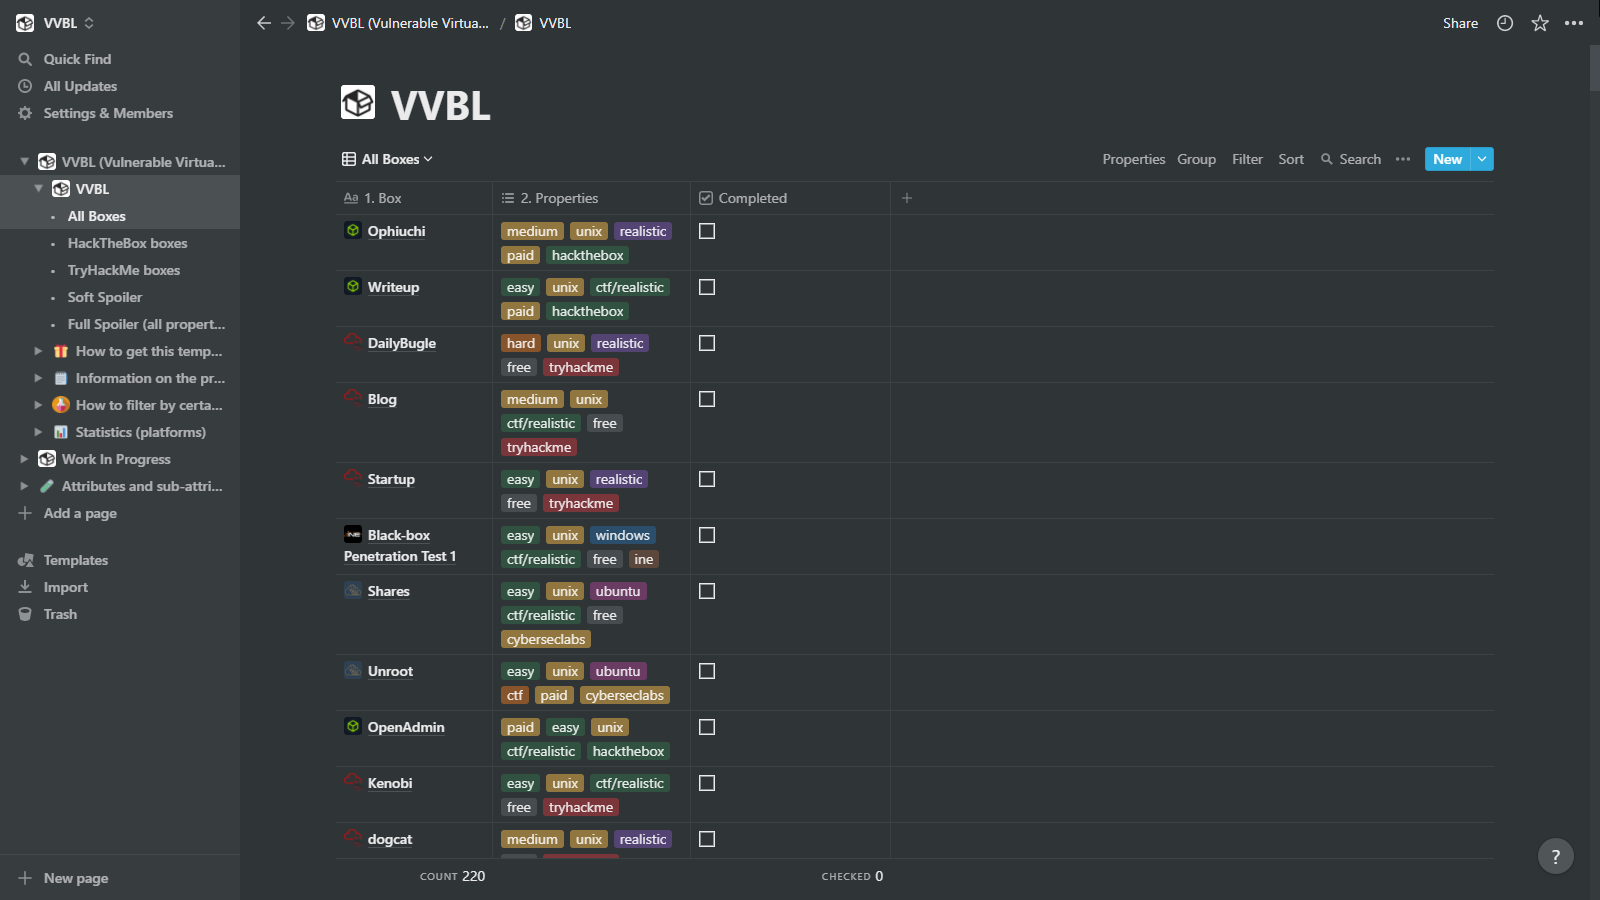
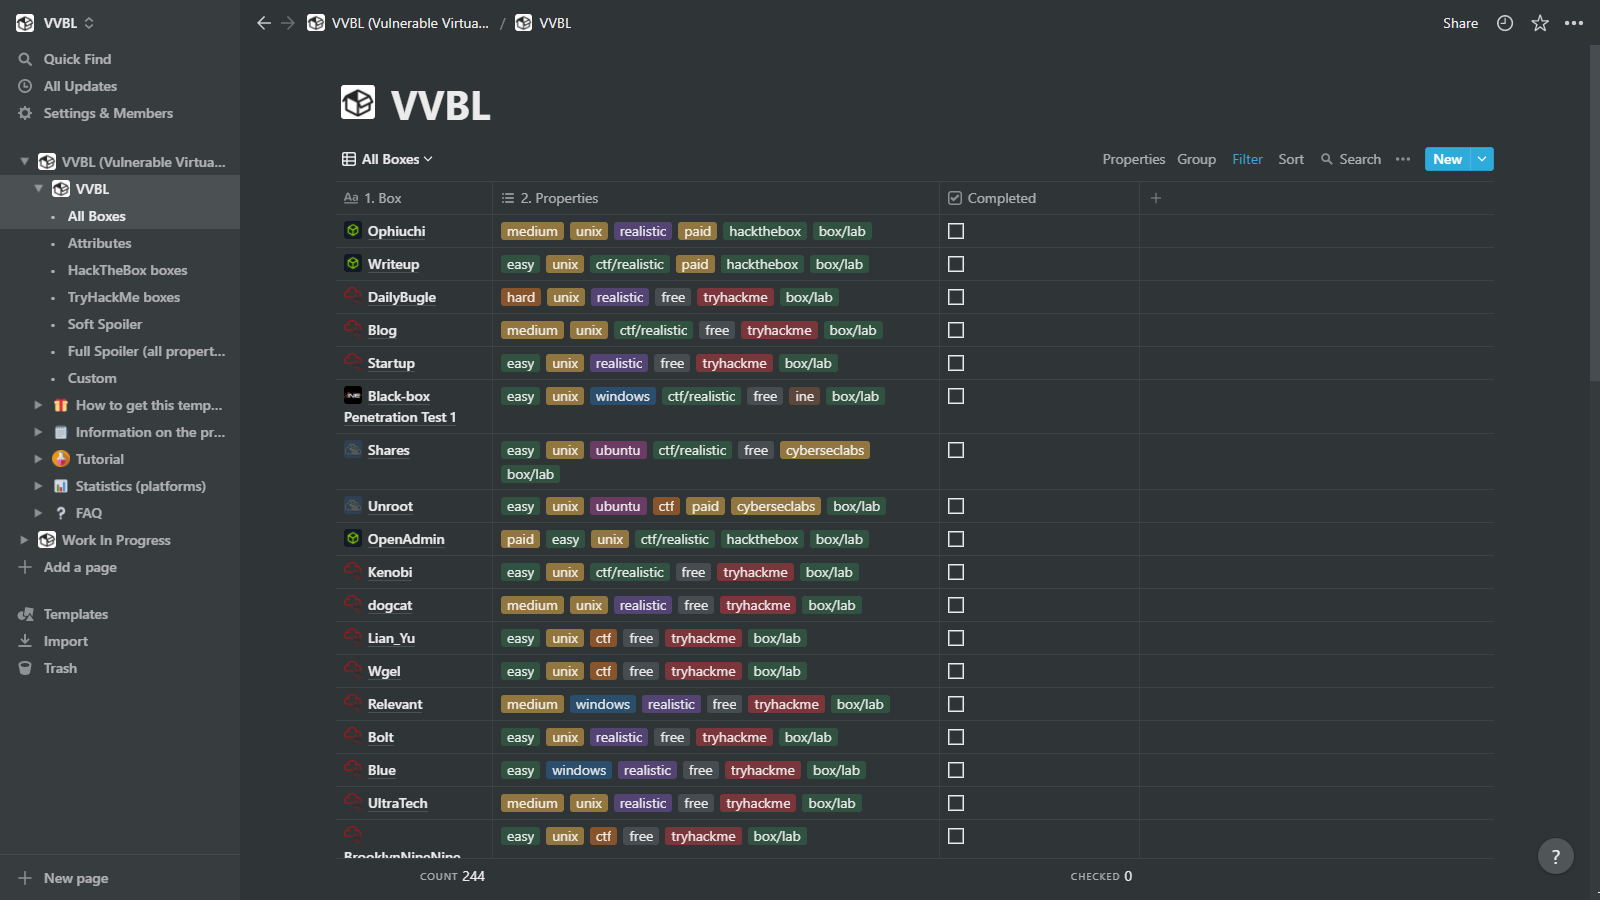
Update README.md

diff --git a/README.md b/README.md
@@ -1,34 +1,32 @@
 # VVBL
 
-VVBL is a list of vulnerable virtual "boxes" (also known as machines) where their different properties and attributes are specified. This list only works in the notes application, Notion.
+VVBL is a list of vulnerable virtual "boxes" (also known as machines) where their different properties and attributes are specified. This list only works in the notes application, Notion. When you enter the template, there will be a section explaining how to obtain it.
+
+<p align="center">
+  <img src="https://encrypted-tbn0.gstatic.com/images?q=tbn:ANd9GcSUtMH3i-Fyec9IcFMjuDdRRlqWg9aZ1ORIKw&usqp=CAU" /><br><br>
+  Link to the template: Work in progress
+</p>
+
+## Features:
+- :package: **+200** boxes
+- :floppy_disk: **+90** services/software
+- :hocho: **+40** attack techniques
+- :syringe: **+80** CVEs
+- :beginner: Different difficulties: **easy**, **medium**, and **hard** (**insane** difficulty coming soon)
+- :flags: Different platforms: **HackTheBox**, **TryHackMe**, **CyberSecLabs**, **INE** (**Proving Grounds** and **SnapLabs** coming soon)
+- :computer: Different operating systems: **Ubuntu**, **Debian**, **CentOS**, **FreeBSD**, **Windows**, **Android**, etc.
+- :bar_chart: Realistic or ctf type box?: **realistic**, **ctf/realistic** and **ctf**
+
+> :star: You can help this project by sharing it to reach more people. Also, if you can provide a star on GitHub, it would be even better ;)
 
 ## Statistics
 |Platform|Documented/Total boxes|
 |---|---|
-|HackTheBox|61/238|
-|TryHackMe|108/182|
+|HackTheBox|70/245|
+|TryHackMe|131/185|
 |CyberSecLabs|36/36|
 |INE|3/3|
-|PG Practice|0/?|
+|PG Practice|0/? (Coming soon)|
 |SnapLabs|0/?|
 |VulnHub|0/?|
 |HackMyVM|0/?|
-
-## How to get this template?
-As mentioned at the beginning, to get this list you need a Notion account. You can register for free and, after that, follow the steps below:
-- Click on "Duplicate" -> Select your workspace -> Done.
-
-## Information on the properties of the "boxes"
-|Name|Properties|
-|---|---|
-|1. Box|Name of the box (also called virtual machine).|
-|2. Properties|Properties of the boxes are shown, such as the platforms they belong to (HackTheBox, TryHackMe, etc.), the difficulty (Easy, Medium, Hard and Insane), the level of realism of the machine (ctf, ctf/realistic, realistic), the operating system (Windows, Unix, etc.), free or paid?|
-|2.9 All Services/Software|All services and software in the "box" are displayed.|
-|3. Pentest Services/Software|The services and software that will need to be audited/interacted to resolve the "box" are shown.|
-|4. Before shell|The attributes (attack techniques/types) of a virtual machine are displayed, before obtaining an interactive shell (not applicable in all cases).|
-|5. After shell|The attributes (attack techniques/types) of a virtual machine are shown, after obtaining an interactive shell.|
-
-## How to filter by certain properties/attributes of a box?
-In Notion, we can use the "**Filter**" functionality, to filter by certain properties/attributes. In the following example, we filter by boxes where we have to interact with the Kerberos service:
-
-- Click "Filter" -> Add a Filter -> Add a filter -> Play with the conditionals to filter by a specific attribute -> Done
